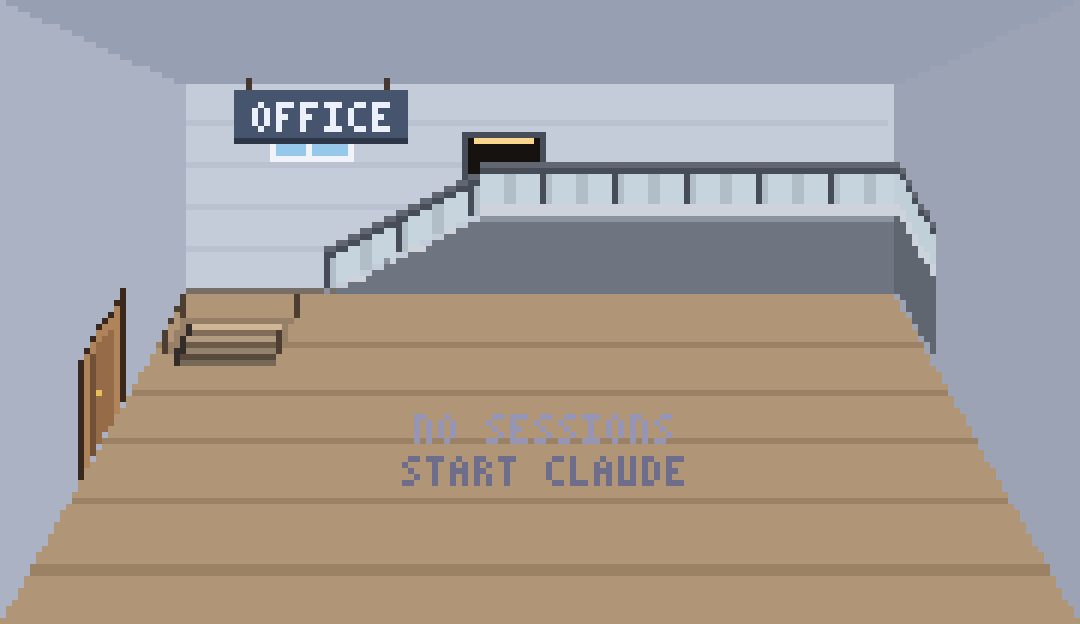
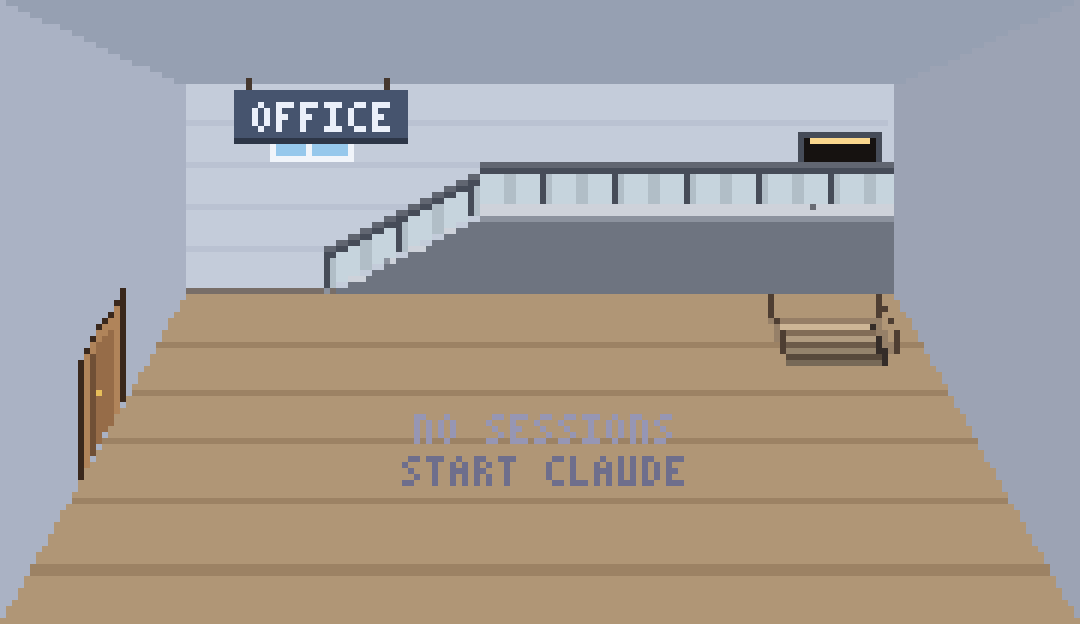
fix(themes): way up at the platform's right end, the platform ends at the corner, the stair well at the back right
Claude-Session: https://claude.ai/code/session_01Qh8rgvM7rmNLjSCToqfMbz

Changed region(s): [[0.7028, 0.2131, 0.8861, 0.609], [0.1528, 0.4872, 0.275, 0.609], [0.4278, 0.2131, 0.5194, 0.3045]]

diff --git a/c/theme.c b/c/theme.c
@@ -368,19 +368,7 @@ static void back_stairs(Canvas *c, const View *v, int coffee, double p) {
     canvas_rect(c, x1, yl - 1, xr - x1, 2, tread);
     canvas_rect(c, x1, yl + 1, xr - x1, y0 - yl, side);
     canvas_rect(c, x1, yl + 1, xr - x1, 1, riser);
-    /* the platform carries on a little way along the right-hand wall (it sits in the corner): its top, its face and the
-     * railing follow the wall's slant forward */
-    int ex = (int)((c->w - v->br) * PLATFORM_ALONG);
-    double slope = (c->h - v->bb) / (c->w - v->br);
-    for (int i = 0; i <= ex; i++) {
-        int x = xr + i, top = (int)(yl - 1 + slope * i), fl = (int)(v->bb + slope * i);
-        canvas_rect(c, x, top, 1, 2, tread);
-        canvas_rect(c, x, top + 2, 1, fl - top - 2, dk(side, 0.12));
-        canvas_px(c, x, top - 6, rail); canvas_px(c, x, top - 7, lt(rail, 0.15));
-        if (st->glass_rail) canvas_rect(c, x, top - 5, 1, 5, rgb_mix(st->glass, side, 0.2));
-        else if (i % 3 == 1) canvas_rect(c, x, top - 5, 1, 5, rail);
-    }
-    int dw = ARCH_W, dh = (int)fmin(ARCH_H, yl - v->bt - 2), dxl = x1 + ARCH_IN; /* on the left of the platform, where the stairs arrive */
+    int dw = ARCH_W, dh = (int)fmin(ARCH_H, yl - v->bt - 2), dxl = xr - dw - ARCH_IN; /* at the right end of the platform */
     if (dh > 6) upstairs_opening(c, dxl, yl - 1, dw, dh, st);
     /* the railing up the stairs and along the platform's edge (the opening is behind it): wooden balusters, or a glass
      * panel under a thin steel rail */
@@ -395,7 +383,7 @@ static void back_stairs(Canvas *c, const View *v, int coffee, double p) {
     if (coffee && xr - x1 > 20 && y0 - yl >= 11) menu_board(c, (x1 + xr) / 2 - 8, yl + 1 + (y0 - yl - 11) / 2); /* the menu on the platform's face */
 }
 
-/* indoors, down: a small stair well at the back left of the floor: a trapezoid opening, its side walls going down, the
+/* indoors, down: a small stair well at the back right of the floor (in front of the platform's end): a trapezoid opening, its side walls going down, the
  * steps going down from its back edge towards the front (lit at the back, darker towards the front), a railing along its
  * sides (the way in is at the back; no rail across the front, so the steps show); p: the opening grows */
 static void stair_well(Canvas *c, const View *v, double cx, double front_y, double hgt, double p) {

diff --git a/c/draw.c b/c/draw.c
@@ -245,17 +245,17 @@ void geo_init(Geo *g, const Room *room, int w, int h) {
         stairs_geometry(v, &x0, &x1, &yl);
         g->gate_in[SIDE_UP][0] = x0 - 4; g->gate_in[SIDE_UP][1] = v->bb + 2;
         g->gate_has_mid[SIDE_UP] = 1; g->gate_mid[SIDE_UP][0] = x1 + 2; g->gate_mid[SIDE_UP][1] = yl - 1; /* up the stairs, then along the platform */
-        g->gate_out[SIDE_UP][0] = x1 + ARCH_IN + ARCH_W / 2.0; g->gate_out[SIDE_UP][1] = yl - 1;          /* to the archway */
+        g->gate_out[SIDE_UP][0] = v->br - ARCH_IN - ARCH_W / 2.0; g->gate_out[SIDE_UP][1] = yl - 1;       /* along it to the opening at its right end */
     }
     if (park) { /* stone steps at the front, going away */
         double wx = w * 0.5, wh = (h - v->bb) * WELL_H;
         g->gate_in[SIDE_DOWN][0] = wx; g->gate_in[SIDE_DOWN][1] = h - 1;
         g->gate_out[SIDE_DOWN][0] = wx; g->gate_out[SIDE_DOWN][1] = h - 1 - wh + 2;
-    } else { /* the stair well at the back left: in beside its back edge, over to the top step, down to its front */
+    } else { /* the stair well at the back right: in beside its back edge, over to the top step, down to its front */
         double fy = v->bb + WELL_BACK, xl, xr;
         view_floor_span(v, fy, &xl, &xr);
-        double wx = xl + WELL_SIDE;
-        g->gate_in[SIDE_DOWN][0] = wx + 12; g->gate_in[SIDE_DOWN][1] = fy - WELL_DEEP + 1;
+        double wx = xr - WELL_SIDE;
+        g->gate_in[SIDE_DOWN][0] = wx - 12; g->gate_in[SIDE_DOWN][1] = fy - WELL_DEEP + 1;
         g->gate_has_mid[SIDE_DOWN] = 1; g->gate_mid[SIDE_DOWN][0] = wx; g->gate_mid[SIDE_DOWN][1] = fy - WELL_DEEP + 1;
         g->gate_out[SIDE_DOWN][0] = wx; g->gate_out[SIDE_DOWN][1] = fy;
     }

diff --git a/c/room.h b/c/room.h
@@ -91,17 +91,16 @@ typedef struct {
 #define TREEHOUSE_UP 18    /* how far above the back of the floor the treehouse door is */
 #define STAIRS_FOOT 0.2     /* the stairs on the back wall start this far along it ... */
 #define STAIRS_TOP 0.42     /* ... and reach the platform here */
-#define ARCH_W 12            /* the opening up: width, height (room pixels), and how far right of the stairs' top */
+#define ARCH_W 12           /* the opening up: width, height (room pixels), and how far in from the platform's right end */
 #define ARCH_H 11
-#define ARCH_IN -2
+#define ARCH_IN 3
 #define DOOR_HALF_DEPTH 0.05 /* a side door spans this part of its depth to each side (a normal door's width) */
-#define PLATFORM_ALONG 0.22 /* the platform carries on along the right-hand wall for this part of the wall's width */
 #define PLATFORM_UP 0.4     /* the platform (a half floor) is this part of the way up the back wall (room above it for the archway) */
 #define PLAY_Y 0.62        /* the park's swing and slide stand this far down the floor */
 #define PLAY_SWING_X 0.23  /* ... the swing this far across, the slide there */
 #define PLAY_SLIDE_X 0.6
 #define WELL_BACK 8         /* the stair well (indoors): its front edge this far in front of the back wall (room pixels), */
-#define WELL_SIDE 11        /* ... its middle this far in from the left-hand wall, */
+#define WELL_SIDE 14        /* ... its middle this far in from the right-hand wall, */
 #define WELL_DEEP 5         /* ... this deep on screen, */
 #define WELL_HALF_W 0.07    /* ... this wide (world units each side) */
 #define WELL_H 0.3         /* its depth on screen, as a part of the floor's height */

diff --git a/Clawd Room Note/Notes/Rooms and Art.md b/Clawd Room Note/Notes/Rooms and Art.md
@@ -83,12 +83,12 @@ Gates sit **on the room's walls, ceiling and floor**, not at the window edge, so
 | --- | --- | --- |
 | **Side** | a **door** on the side wall facing the neighbour, a normal door's width, drawn column by column along the wall (dark outline, light frame and lintel, leaf with a knob; reads on any wall); **opens while a Clawd passes** | a **fence** along that side with a **gate** (the bushes leave that side) |
 | **Up** | **stairs to a half floor** (below): **steel with a glass railing** in the office, **wooden with balusters** in the coffee shop | a **treehouse** in the big tree, a ladder up to it |
-| **Down** | a small **stair well** at the back left of the floor: trapezoid opening, side walls going down, steps going down from its back edge towards the front, a railing along its sides | **stone steps** into the ground, low stone walls round them |
+| **Down** | a small **stair well** at the back right of the floor (in front of the platform's end): trapezoid opening, side walls going down, steps going down from its back edge towards the front, a railing along its sides | **stone steps** into the ground, low stone walls round them |
 
 > [!example] The stairs, as Zaviel drew them
-> They start a fifth of the way along the back wall (`STAIRS_FOOT` 0.2) and climb to a **platform** 40% of the way up the wall (`PLATFORM_UP` 0.4, reached at `STAIRS_TOP` 0.42). The platform runs to the right-hand wall and a little way along it (it sits in the corner); its front face goes down to the floor (the coffee shop's **menu** hangs on it). A **banister** runs up the stairs and along the platform. The way up is an **opening where the stairs carry on upwards** (steps into the dark, a warm light at the top) on the left of the platform, starting over the top of the stairs, standing on the platform floor behind the railing (kept by Zaviel after mockups of other ideas).
+> They start a fifth of the way along the back wall (`STAIRS_FOOT` 0.2) and climb to a **platform** 40% of the way up the wall (`PLATFORM_UP` 0.4, reached at `STAIRS_TOP` 0.42). The platform runs to the right-hand wall; its front face goes down to the floor (the coffee shop's **menu** hangs on it). A **banister** runs up the stairs and along the platform. The way up is an **opening where the stairs carry on upwards** (steps into the dark, a warm light at the top) at the right end of the platform, standing on the platform floor behind the railing (kept by Zaviel after mockups of other ideas).
 >
-> ![[2026-10-18 way up coffee.png|300]] ![[2026-10-18 way up office.png|300]]
+> ![[2026-10-18 coffee stairs well and doors.png|300]] ![[2026-10-18 office stairs well and doors.png|300]]
 
 > [!note] Appearing
 > A gate that appears while the room runs animates in over `GATE_ANIM` (0.8 s): doors and fences rise, stairs appear step by step, the well opens, the treehouse ladder grows. Gates there from the first frame are simply there.

diff --git a/Clawd Room Note/Notes/Test Checklist.md b/Clawd Room Note/Notes/Test Checklist.md
@@ -24,8 +24,8 @@ tags:
 ## Gates and crossing ([[Interaction]])
 - [x] Two linked windows side by side: gates appear, `g` sends a Clawd across (2026-10-17, older gates)
 - [ ] Side by side: a door on each room's facing wall; `g`: the Clawd walks to the door, it opens, the Clawd goes through and comes out of the other room's door
-- [ ] Stacked: the upper room shows the small stair well at the back left (office / coffee) or stone steps (park); the lower room shows the stairs on the back wall (office / coffee) or the treehouse (park)
-- [ ] Office stairs are steel with a glass railing, coffee shop stairs wooden; the way up is a small opening on the left of the platform with steps going up and a light
+- [ ] Stacked: the upper room shows the small stair well at the back right (office / coffee) or stone steps (park); the lower room shows the stairs on the back wall (office / coffee) or the treehouse (park)
+- [ ] Office stairs are steel with a glass railing, coffee shop stairs wooden; the way up is an opening at the right end of the platform with steps going up and a light
 - [ ] Going up: the Clawd climbs the stairs to the half floor, walks along it and goes through the opening (or up the treehouse ladder); coming down the other way round; going down: it walks into the well / steps
 - [ ] Gates appearing animate in, in both windows at the same moment; gates there at start are simply there
 - [ ] `b` calls our Clawds home; with none away it sends visitors home

diff --git a/Clawd Room Note/Docs/Dev Log.md b/Clawd Room Note/Docs/Dev Log.md
@@ -46,12 +46,12 @@ gitGraph
 ---
 ## 2026-10-18
 
-### 🪜 Stair well at the back left, platform in the corner
+### 🪜 Way up at the platform's right end, stair well at the back right
 > [!info] Branch `feat/style-a`
-- The **stair well** (way down) is smaller and moved to the **back left** of the floor; its steps go down from the back edge towards the front, with a railing along its sides.
-- The **platform carries on along the right-hand wall**, so it sits in the corner; the way up is wider again and starts over the top of the stairs; side doors a little narrower.
+- Following Zaviel's sketch: the **way up** sits at the **right end of the platform**; the platform **ends at the back corner** (it no longer runs along the right-hand wall).
+- The **stair well** (way down) is small, at the **back right** of the floor in front of the platform's end; its steps go down from the back edge towards the front, a railing along its sides. Side doors a little narrower.
 
-![[2026-10-18 office stairs well and doors.png|300]] ![[2026-10-18 stair well close-up.png|250]]
+![[2026-10-18 office stairs well and doors.png|300]] ![[2026-10-18 coffee stairs well and doors.png|300]] ![[2026-10-18 stair well close-up.png|220]]
 
 ### 🚪 The way up, on the left of the platform
 > [!info] Branch `feat/style-a`
